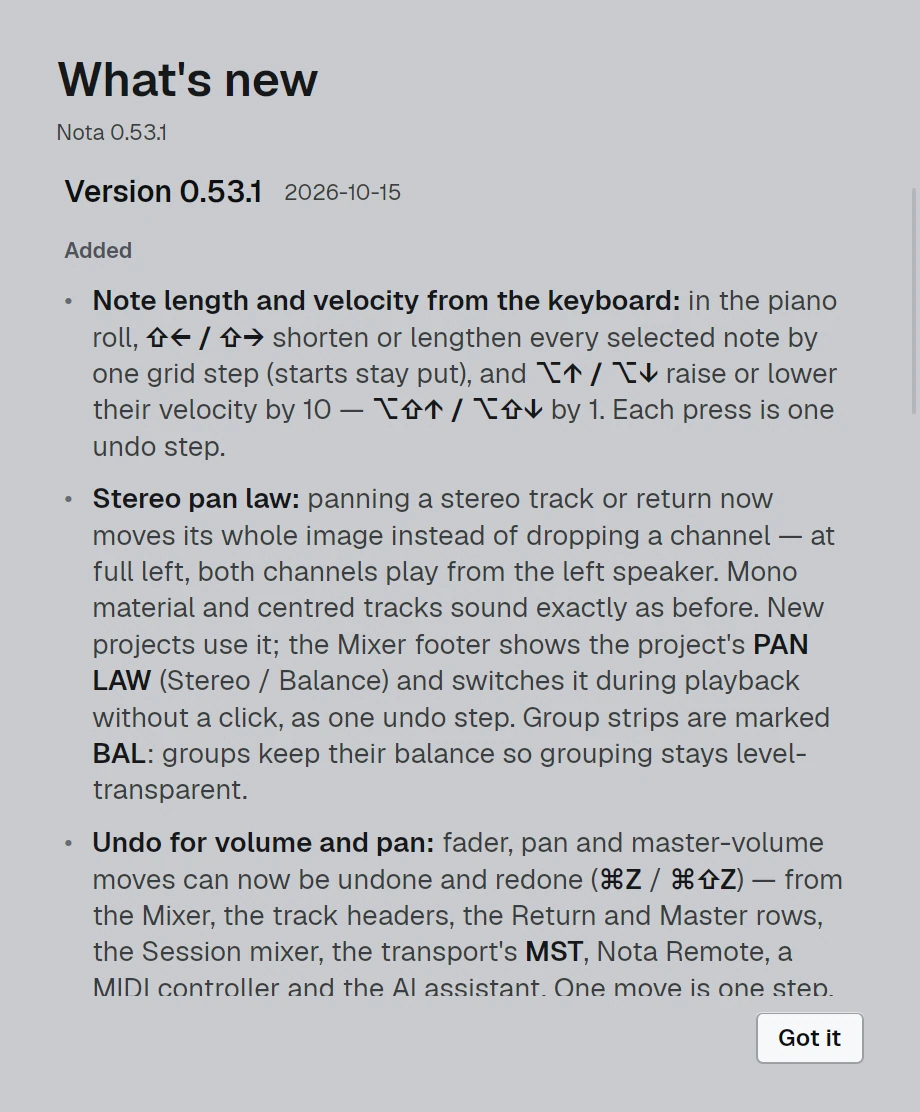
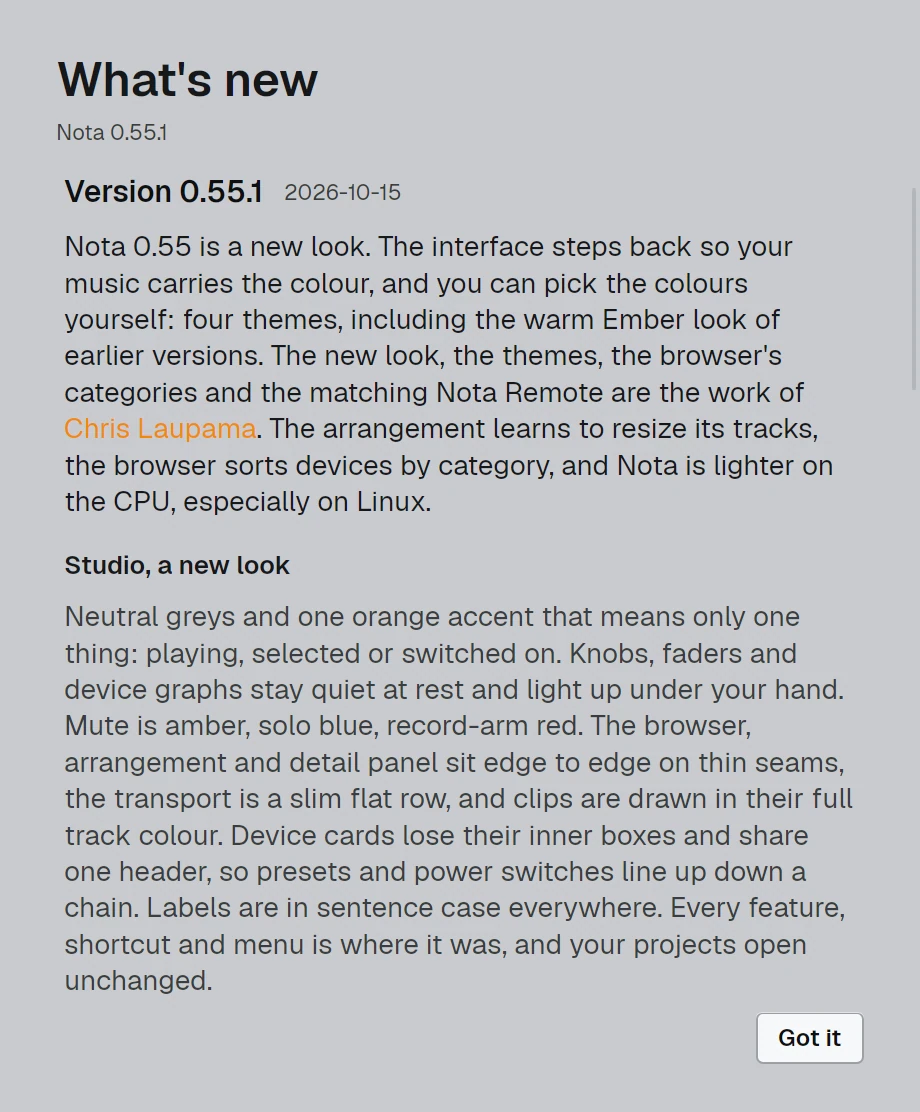
What's New shows the release notes (EN + RU)
First launch and Changelog pages say What's New shows each version's release notes,
the same text as on GitHub. The whats-new shot is retaken; the shots scene reads
AppInfo.Changelog() so it shows what the app shows, and the shots app's Avalonia
matches the app's (12.1.4).

Changed region(s): [[0.0609, 0.214, 0.9435, 0.9173], [0.8826, 0.4586, 0.913, 0.4892], [0.2435, 0.1529, 0.2739, 0.1835]]

diff --git a/shots/app/Scenes.cs b/shots/app/Scenes.cs
@@ -414,9 +414,9 @@ public sealed class Scenes
 
     private void WhatsNew(Shot shot)
     {
-        var repo = Environment.GetEnvironmentVariable("NOTA_REPO") ?? throw new ArgumentException("NOTA_REPO not set");
-        var entries = ChangelogParser.Parse(File.ReadAllText(Path.Combine(repo, "CHANGELOG.md")))
-            .Where(e => e.Sections.Count > 0 && !e.Version.Contains("Unreleased", StringComparison.OrdinalIgnoreCase)).Take(shot.Int("entries") ?? 1).ToList();
+        // What the app shows: a release's curated notes where it has them, else its changelog section.
+        var entries = AppInfo.Changelog()
+            .Where(e => e.Sections.Count > 0 && SemVer.TryParse(e.Version, out _)).Take(shot.Int("entries") ?? 1).ToList();
         Simple(shot, new WhatsNewWindow(entries));
     }
 
